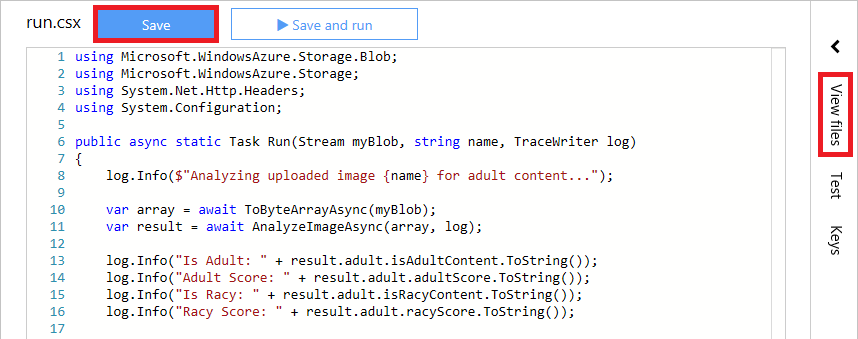
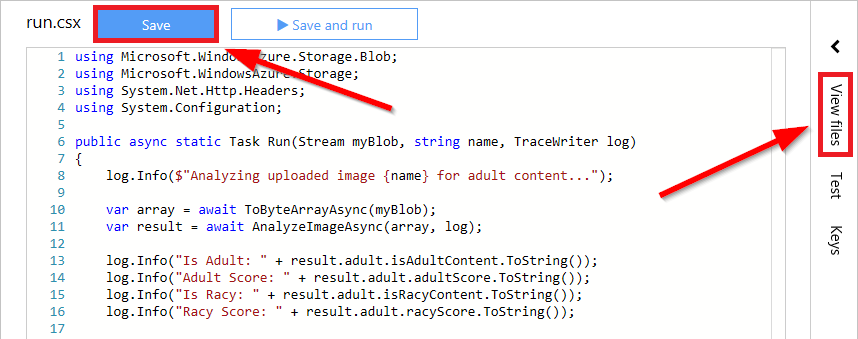
fixed image sizes, updated image with arrow, removed unclear compilation instructions

Changed region(s): [[0.7576, 0.354, 0.9394, 0.59], [0.2424, 0.118, 0.4545, 0.3245]]

diff --git a/index.html b/index.html
@@ -1637,7 +1637,7 @@ public class Adult
 <p>Click the <em>Save</em> button at the top of the code editor to save your changes. Then click <em>View Files</em>.</p>
 <p><img src="images/chapter8/save-run-file.png" class="img-medium" /></p>
 <p>Click <em>+ Add</em> to add a new file, and name the file <em>project.json</em>.</p>
-<p><img src="images/chapter8/add-project-file.png" class="img-small" /></p>
+<p><img src="images/chapter8/add-project-file.png" alt="image">  </p>
 <p>Add the following statements to <em>project.json</em>:</p>
 <pre><code class="lang-json">{
     &quot;frameworks&quot;: {
@@ -1666,9 +1666,8 @@ public class Adult
 <p><img src="images/chapter8/goto-app-settings.gif" class="img-large" /></p>
 <p>On the right, select the <em>Platform features</em> tab at top. Under <em>General Settings</em>, click <em>Application settings</em>. </p>
 <p>Scroll down until you find the <em>App settings</em> section. Add a new app setting named <em>SubscriptionKey</em>, and paste the Cognitive Services API subscription key that is on the clipboard into the <em>Value</em> box. Then click <em>Save</em> at the top of the blade.</p>
-<p><img src="images/chapter8/add-key.png" alt="Adding a subscription key"></p>
-<p>The app settings are now configured for your Azure Function. It&#39;s a good idea to validate those settings by recompiling the function and ensuring that it compiles without errors. Scroll left until you see the &quot;Function app&quot; blade, and then click <em>BlobImageAnalysis</em>.</p>
-<p><img src="images/chapter8/open-function.png" class="img-small" />    </p>
+<p><img src="images/chapter8/add-key.png" class="img-medium" /></p>
+<p>The app settings are now configured for your Azure Function. </p>
 <div class="exercise-end"></div>
 
 <h3 id="testing-the-azure-function">Testing the Azure Function</h3>

diff --git a/src/chapters/chapter8.md b/src/chapters/chapter8.md
@@ -203,7 +203,7 @@ Click the *Save* button at the top of the code editor to save your changes. Then
 
 Click *+ Add* to add a new file, and name the file *project.json*.
 
-<img src="images/chapter8/add-project-file.png" class="img-small" />
+![image](images/chapter8/add-project-file.png)  
 
 Add the following statements to *project.json*:
 
@@ -247,11 +247,9 @@ On the right, select the *Platform features* tab at top. Under *General Settings
 
 Scroll down until you find the *App settings* section. Add a new app setting named *SubscriptionKey*, and paste the Cognitive Services API subscription key that is on the clipboard into the *Value* box. Then click *Save* at the top of the blade.
 
-![Adding a subscription key](images/chapter8/add-key.png)
+<img src="images/chapter8/add-key.png" class="img-medium" />
 
-The app settings are now configured for your Azure Function. It's a good idea to validate those settings by recompiling the function and ensuring that it compiles without errors. Scroll left until you see the "Function app" blade, and then click *BlobImageAnalysis*.
-
-<img src="images/chapter8/open-function.png" class="img-small" />	
+The app settings are now configured for your Azure Function. 
 
 <div class="exercise-end"></div>
 
